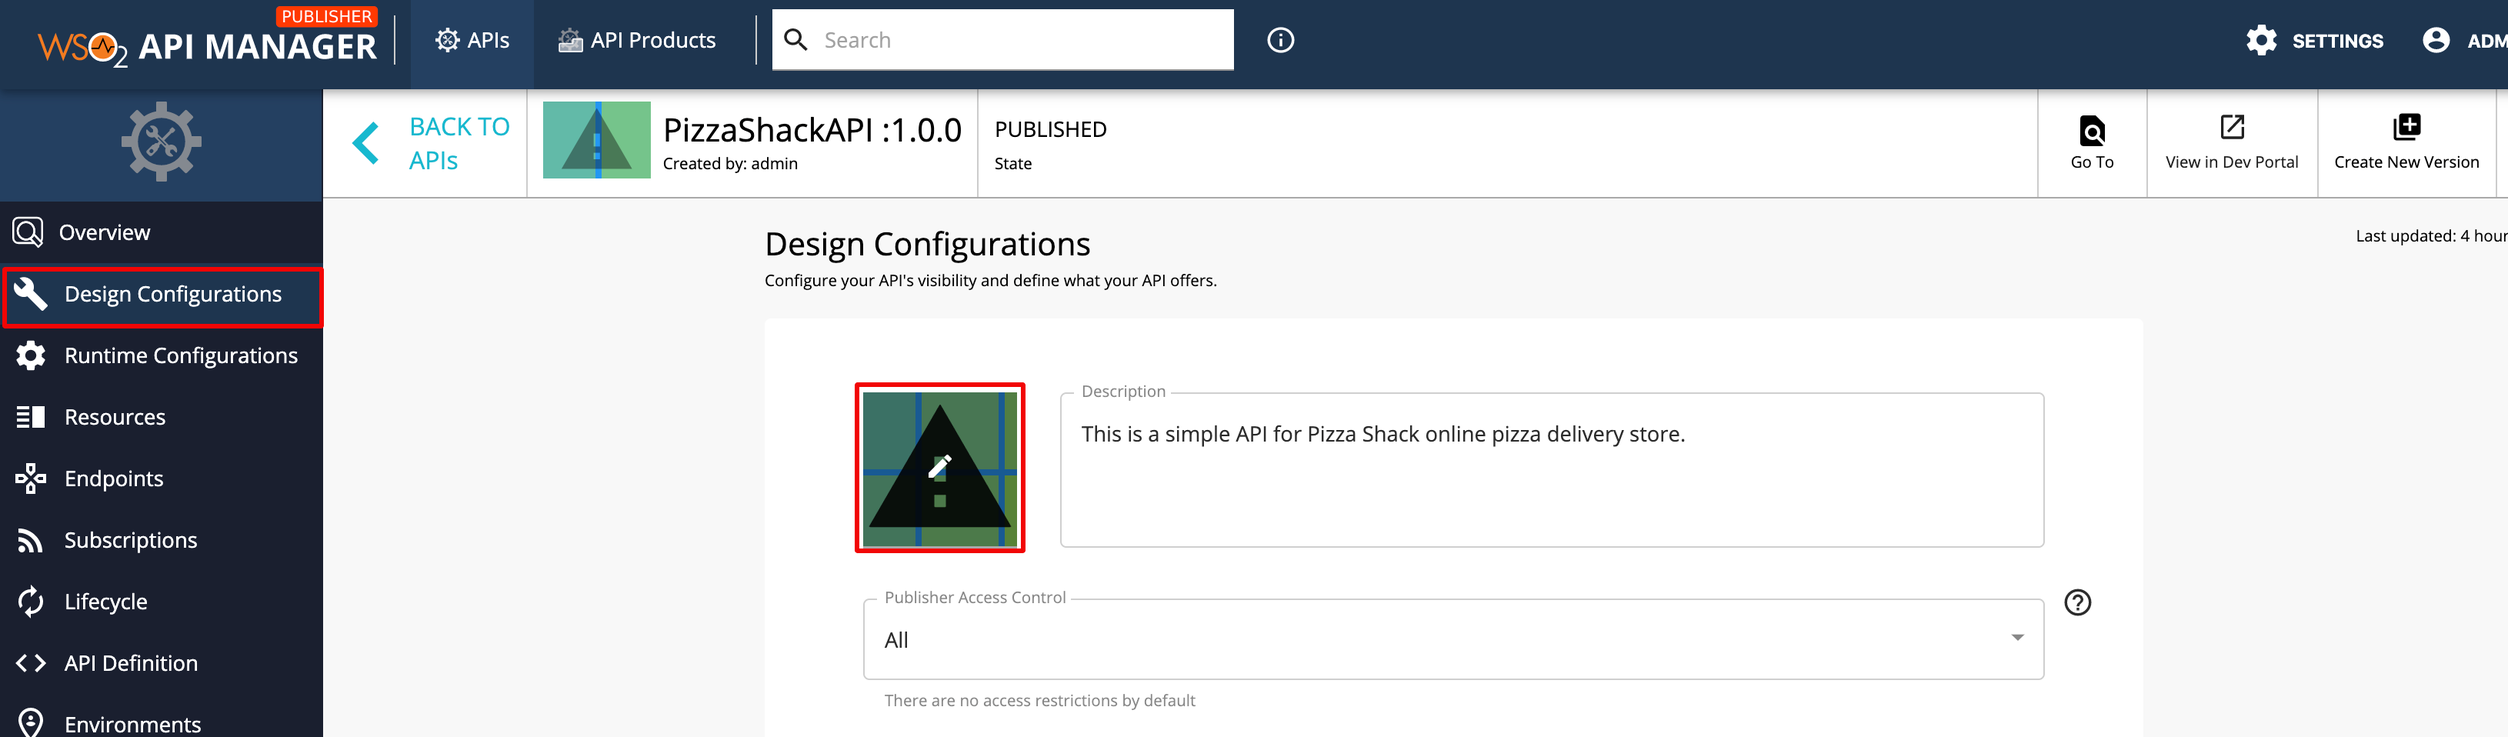
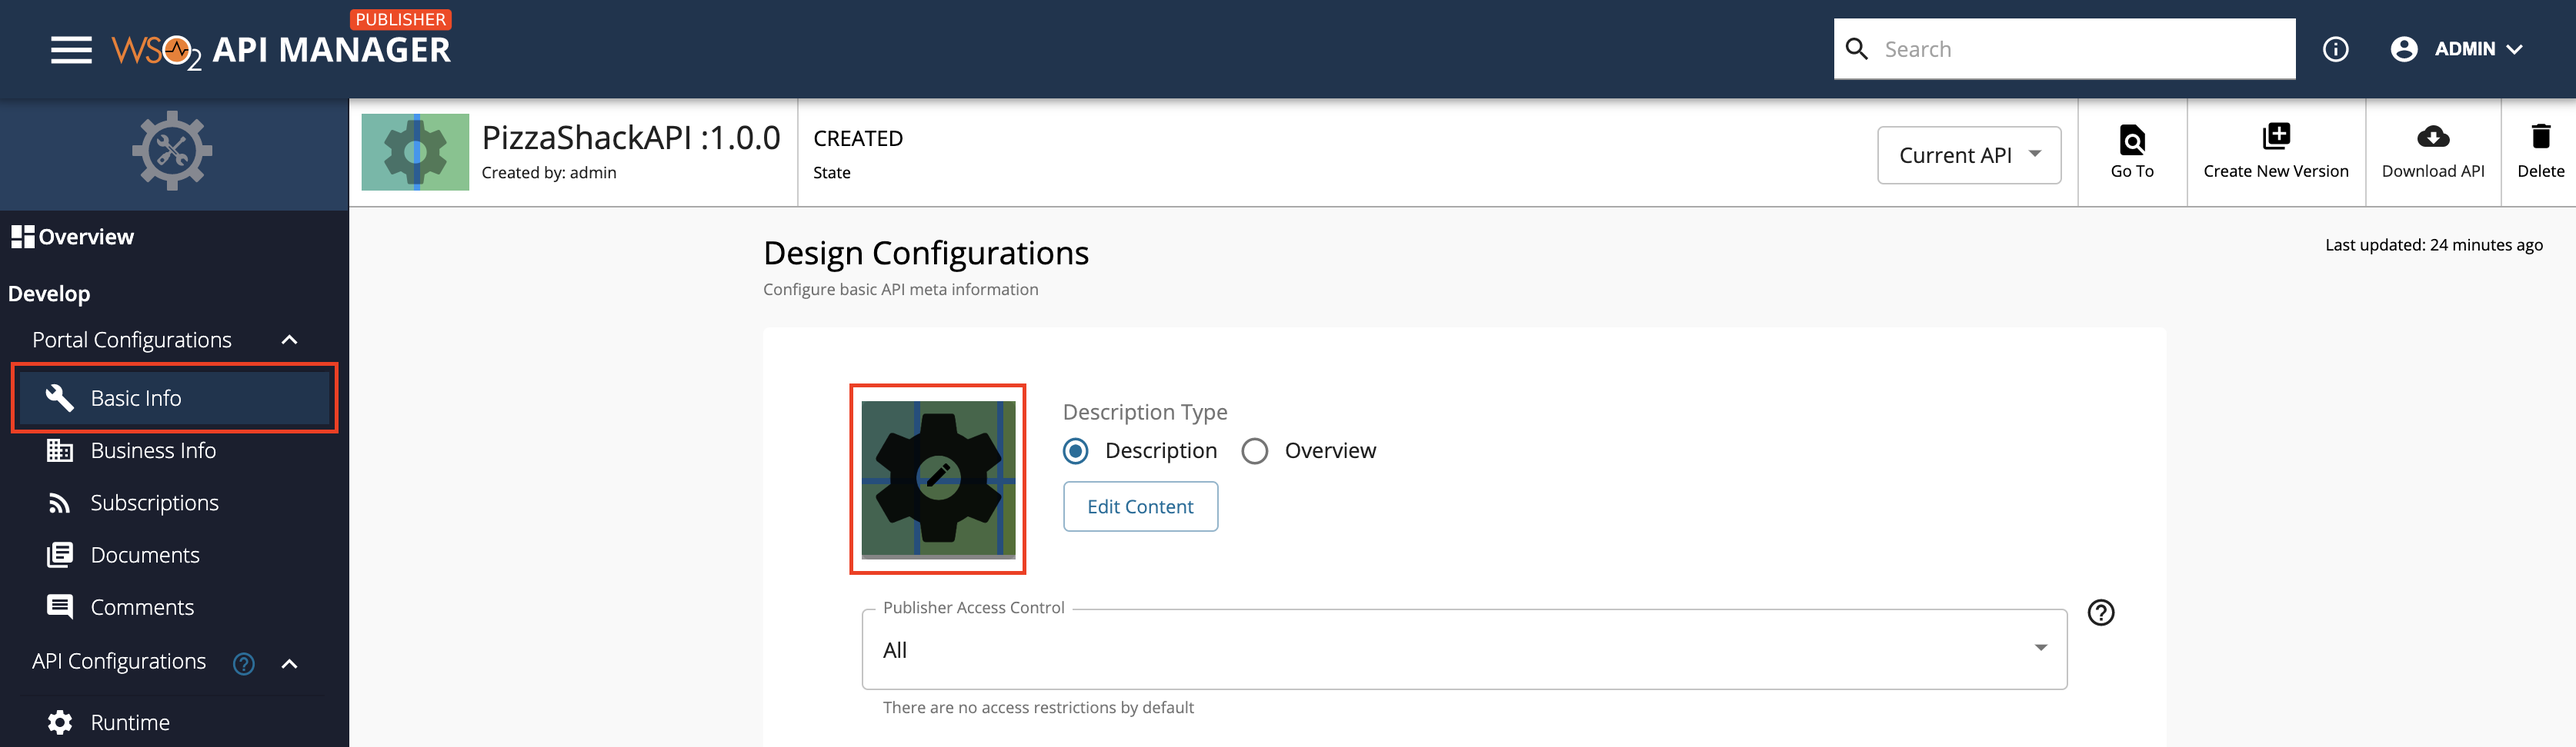
changing thumbnail - screenshots

diff --git a/en/docs/design/create-api/change-api-thumbnail.md b/en/docs/design/create-api/change-api-thumbnail.md
@@ -7,7 +7,7 @@ The thumbnail of an API can be changed by uploading an image for the thumbnail o
 1. Sign in to API Publisher and click on the API that you want to change the thumbnail.
    [![]({{base_path}}/assets/img/learn/change-thumbnail-api-publisher-view.png)]({{base_path}}/assets/img/learn/change-thumbnail-api-publisher-view.png) 
   
-2. Click **Design Configurations** and click on the API Thumbnail image.
+2. Click **Basic Info** and click the API Thumbnail image.
    [![]({{base_path}}/assets/img/learn/change-thumbnail-click-on-thumbnail.png)]({{base_path}}/assets/img/learn/change-thumbnail-click-on-thumbnail.png) 
 3. Click **Upload** and click on the Drop Zone to select an image for the thumbnail.
     [![]({{base_path}}/assets/img/learn/change-thumbnail-click-upload.png)]({{base_path}}/assets/img/learn/change-thumbnail-click-upload.png) 
